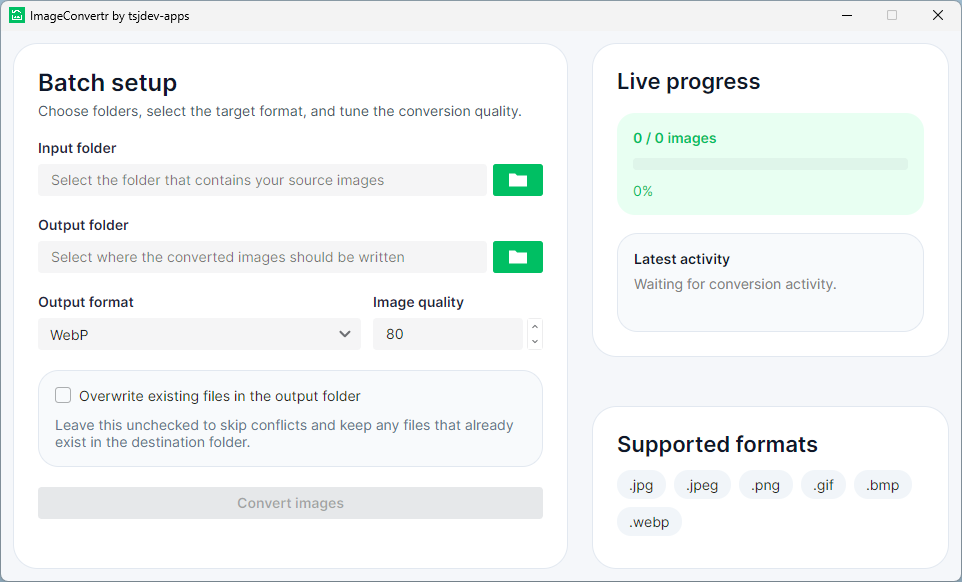
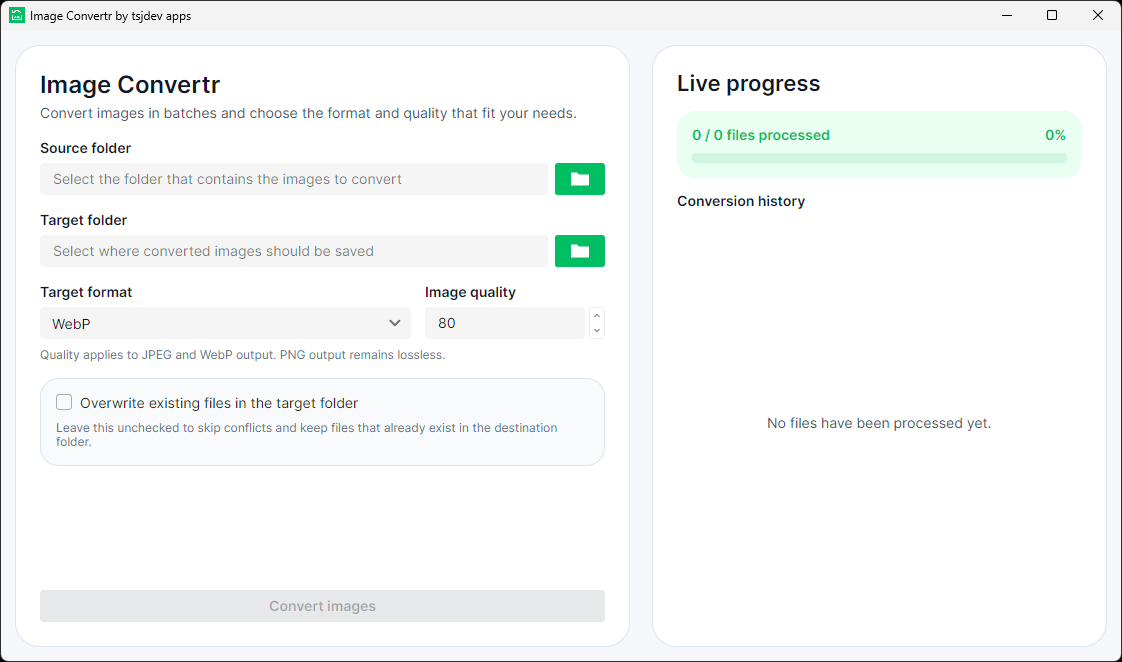
Refresh README workflow details and screenshots
Expanded the README to better reflect the current app behavior, including file-level progress/history, completion summaries, overwrite/skip outcomes, JPEG/WebP quality handling, language/theme behavior, and updated testing scope. Also replaced the three UI screenshots to match the revised documentation and current interface.

diff --git a/README.md b/README.md
@@ -1,6 +1,6 @@
 # Image Convertr
 
-Image Convertr is a cross-platform desktop app for converting entire folders of images without turning the task into a script. Built with Avalonia on .NET, it focuses on a practical batch workflow: choose a source folder, pick an output folder, select the target format, adjust quality, and export converted images with live progress feedback.
+Image Convertr is a cross-platform desktop app for converting entire folders of images without turning the task into a script. Built with Avalonia on .NET, it focuses on a practical batch workflow: choose a source folder, pick a target folder, select the output format, adjust quality, and follow every result in a live conversion history.
 
 ![Illustrated header for ImageConvertr](docs/header.jpg)
 
@@ -10,41 +10,50 @@ The project is aimed at everyday image-conversion jobs such as preparing web-rea
 
 - Batch convert supported images from a desktop UI
 - Convert output files to `PNG`, `JPEG`, or `WebP`
-- Adjust image quality for encoded output formats
+- Adjust image quality for JPEG and WebP output; PNG remains lossless
 - Skip or overwrite existing files in the output folder
-- Track progress through live status updates and completion summaries
-- Supports `.jpg`, `.jpeg`, `.png`, `.gif`, `.bmp`, and `.webp`
+- Track file-based progress with processed and total counts, a progress bar, and a percentage
+- Review a compact, automatically scrolling entry for every discovered file
+- Distinguish converted, overwritten, skipped, and failed files without relying on color alone
+- Compare source and target filenames, formats, and readily available file sizes
+- Finish every batch with a summary entry in the conversion history
+- Use the app in English or German, selected automatically from the operating system UI language
+- Follow the operating system light or dark theme
+- Read `.jpg`, `.jpeg`, `.png`, `.gif`, `.bmp`, and `.webp` input files
 
 > Note: the current conversion workflow processes files from the selected input folder only. It does not recurse into nested subfolders.
 
 ## Screenshots
 
-### Batch setup
+### Ready to convert
 
 ![ImageConvertr batch setup screen](docs/screenshot-01.png)
 
-The main screen keeps the workflow simple: select an input folder, choose an output folder, pick the target format, adjust quality, and decide whether existing files should be overwritten.
+The two-card layout keeps configuration and feedback together. The left card contains the complete batch setup, while the right card starts with a compact `0 / 0` progress state and an empty conversion history. The primary action remains disabled until both folders are selected.
 
 ### Live progress during a running batch
 
 ![ImageConvertr live progress while converting images](docs/screenshot-02.png)
 
-While the batch is running, ImageConvertr shows overall progress, the latest file activity, and a clear status message so you can see what the app is doing at a glance.
+While a batch is running, the settings are locked and the right-hand card reports processed files, total files, percentage, and overall progress. Each completed file is added to the scrollable history with its status, target filename, format change, and file-size comparison. The newest entry is kept visible automatically.
 
 ### Completion summary
 
 ![ImageConvertr completion summary after converting images](docs/screenshot-03.png)
 
-After the batch finishes, the same workspace shows the final summary, including processed files and saved space, without forcing you into a separate report view.
+After the batch finishes, the final history entry summarizes converted, overwritten, skipped, and failed files together with the space saved. Settings become available again without opening a separate report view.
 
 ## Conversion Workflow
 
 1. Select the folder that contains the source images.
 2. Choose where the converted copies should be written.
 3. Pick the output format: `PNG`, `JPEG`, or `WebP`.
-4. Adjust the image quality value for the selected conversion.
+4. Adjust image quality when converting to JPEG or WebP. PNG output is lossless.
 5. Decide whether to skip or overwrite existing output files.
-6. Start the batch and follow the live progress panel.
+6. Start the batch and follow the file-based progress and conversion history.
+7. Review the automatically appended summary when the operation finishes.
+
+Starting another batch clears the previous progress and history. Files with unsupported extensions are not converted and appear as skipped entries. Existing target files are skipped unless overwrite is enabled.
 
 ## Supported Formats
 
@@ -63,11 +72,34 @@ Converted files can be written as:
 - `JPEG`
 - `WebP`
 
+Output files keep the source base name and receive the extension of the selected target format.
+
+## Conversion History
+
+The history is designed to remain readable for batches containing hundreds or thousands of files. Entries use compact rows and communicate their outcome with both a symbol and localized text:
+
+- **Converted**: a new target file was written
+- **Overwritten**: an existing target file was replaced
+- **Skipped**: the file was unsupported, source and target were identical, or the target already existed
+- **Failed**: the image could not be decoded, encoded, read, or written
+
+Successful rows show the source and target filenames, the format transition, and source/target sizes when those values are already available during conversion. The history scrolls internally, so large batches do not increase the application window size.
+
+## Languages and Themes
+
+Image Convertr includes complete English and German resources. The language follows the operating system UI culture:
+
+- German regional cultures such as `de-DE`, `de-AT`, and `de-CH` use German
+- English regional cultures use English
+- Other currently unsupported cultures fall back to English
+
+The application also follows the operating system light or dark theme. Filenames, file extensions, and codec identifiers remain unchanged regardless of the selected UI language.
+
 ## Getting Started
 
 ### Prerequisites
 
-- .NET SDK matching the version pinned in `global.json`
+- .NET SDK `10.0.400`, as pinned in `global.json`
 
 ### Restore
 
@@ -99,7 +131,7 @@ There is no separate lint command. Repository analyzers and code-style checks ru
 
 - `src/ImageConvertr.App`: Avalonia desktop UI shell
 - `src/ImageConvertr.Core`: conversion pipeline, models, and image processing
-- `tests/ImageConvertr.Tests`: xUnit tests for the conversion service and format metadata
+- `tests/ImageConvertr.Tests`: xUnit tests for conversion behavior, progress history, summaries, and localization
 
 The solution intentionally keeps the UI thin. Avalonia-specific code lives in the app project, while the conversion workflow, format handling, file handling, and progress reporting live in the core library.
 
@@ -113,7 +145,7 @@ The solution intentionally keeps the UI thin. Avalonia-specific code lives in th
 
 ## Quality
 
-The repository includes automated coverage for the batch conversion service and output format metadata. Tests verify conversion behavior, file handling, overwrite rules, unsupported files, GIF input handling, progress reporting, and failure handling.
+The repository includes automated coverage for the batch conversion service, output format metadata, progress history, completion summaries, and localization. Tests verify conversion behavior, file handling, overwrite rules, unsupported files, GIF input handling, progress calculation, history reset, English and German resources, culture fallback, and failure handling.
 
 ## License
 
